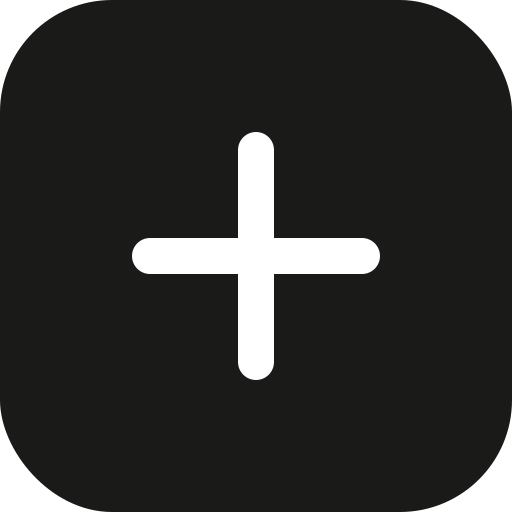
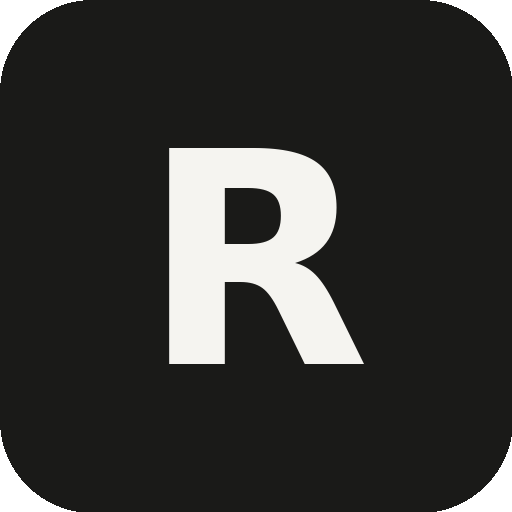
layout correction

diff --git a/src/components/layout/NavVisibilityWrapper.tsx b/src/components/layout/NavVisibilityWrapper.tsx
@@ -1,26 +1,53 @@
 'use client'
 
 import { usePathname } from 'next/navigation'
+import BottomNav from '@/components/layout/BottomNav'
+import SidebarNav from '@/components/layout/SidebarNav'
 
 const HIDDEN_ROUTES = ['/login', '/onboarding', '/auth']
 
-export default function NavVisibilityWrapper({
-  children,
-}: {
+interface Props {
   children: React.ReactNode
-}) {
+  userName: string
+  userInitials: string
+  userRole: string
+}
+
+export default function NavVisibilityWrapper({ children, userName, userInitials, userRole }: Props) {
   const pathname = usePathname()
   const hideNav = HIDDEN_ROUTES.some((route) => pathname.startsWith(route))
 
+  // Auth/onboarding pages — no nav, no shell, just the page
   if (hideNav) {
-    // On auth/onboarding pages, render children without any nav wrapper
-    return (
-      <div style={{ minHeight: '100dvh' }}>
-        {children}
-      </div>
-    )
+    return <div style={{ minHeight: '100dvh' }}>{children}</div>
   }
 
-  // On normal pages, render the full shell (sidebar + content + bottom nav)
-  return <>{children}</>
+  // Normal app pages — full shell with sidebar + bottom nav
+  return (
+    <>
+      <div className="hidden md:block">
+        <SidebarNav userName={userName} userInitials={userInitials} userRole={userRole} />
+      </div>
+      <div
+        className="app-shell md:ml-[210px]"
+        style={{ display: 'flex', flexDirection: 'column', minHeight: '100dvh', overflow: 'hidden' }}
+      >
+        <main
+          className="page-content"
+          style={{
+            flex: 1,
+            overflowY: 'auto',
+            viewTransitionName: 'page-content',
+          }}
+        >
+          <div className="px-4 py-4 pb-[90px] md:px-10 md:py-8 md:pb-8 md:max-w-[1240px] md:mx-auto">
+            {children}
+          </div>
+        </main>
+        <div className="block md:hidden flex-shrink-0">
+          <BottomNav />
+        </div>
+      </div>
+    </>
+  )
 }

diff --git a/src/app/layout.tsx b/src/app/layout.tsx
@@ -1,9 +1,7 @@
 import type { Metadata, Viewport } from 'next'
 import { Inter } from 'next/font/google'
 import './globals.css'
-import BottomNav from '@/components/layout/BottomNav'
 import ProgressBar from '@/components/layout/ProgressBar'
-import SidebarNav from '@/components/layout/SidebarNav'
 import NavVisibilityWrapper from '@/components/layout/NavVisibilityWrapper'
 import { createServerSupabaseClient } from '@/lib/supabase-server'
 import { createClient } from '@supabase/supabase-js'
@@ -15,6 +13,10 @@ export const metadata: Metadata = {
   description: 'Liberate sales and marketing through effortless AI.',
   manifest: '/manifest.json',
   appleWebApp: { capable: true, statusBarStyle: 'default', title: 'Rollable' },
+  icons: {
+    icon: '/favicon-32.png',
+    apple: '/apple-touch-icon.png',
+  },
 }
 
 export const viewport: Viewport = {
@@ -52,9 +54,6 @@ export default async function RootLayout({ children }: { children: React.ReactNo
     <html lang="en">
       <head>
         <style>{`
-          /* ── View Transitions ─────────────────────────────────────────────── */
-
-          /* Default cross-page transition: fast fade + subtle upward drift */
           @keyframes Rollable-fade-in {
             from { opacity: 0; transform: translateY(6px); }
             to   { opacity: 1; transform: translateY(0); }
@@ -63,23 +62,18 @@ export default async function RootLayout({ children }: { children: React.ReactNo
             from { opacity: 1; transform: translateY(0); }
             to   { opacity: 0; transform: translateY(-4px); }
           }
-
           ::view-transition-old(root) {
             animation: 120ms cubic-bezier(0.4, 0, 1, 1) both Rollable-fade-out;
           }
           ::view-transition-new(root) {
             animation: 200ms cubic-bezier(0, 0, 0.2, 1) both Rollable-fade-in;
           }
-
-          /* Named transition for page-level content — faster, no drift */
           ::view-transition-old(page-content) {
             animation: 90ms ease-in both Rollable-fade-out;
           }
           ::view-transition-new(page-content) {
             animation: 160ms ease-out both Rollable-fade-in;
           }
-
-          /* Cards slide in from slightly below on entry */
           @keyframes Rollable-card-in {
             from { opacity: 0; transform: translateY(10px) scale(0.99); }
             to   { opacity: 1; transform: translateY(0) scale(1); }
@@ -87,8 +81,6 @@ export default async function RootLayout({ children }: { children: React.ReactNo
           ::view-transition-new(card) {
             animation: 220ms cubic-bezier(0, 0, 0.2, 1) both Rollable-card-in;
           }
-
-          /* Reduce motion: respect system preference */
           @media (prefers-reduced-motion: reduce) {
             ::view-transition-old(root),
             ::view-transition-new(root),
@@ -101,30 +93,8 @@ export default async function RootLayout({ children }: { children: React.ReactNo
       </head>
       <body className={inter.className}>
         <ProgressBar />
-        <NavVisibilityWrapper>
-          <div className="hidden md:block">
-            <SidebarNav userName={userName} userInitials={userInitials} userRole={userRole} />
-          </div>
-          <div
-            className="app-shell md:ml-[210px]"
-            style={{ display: 'flex', flexDirection: 'column', minHeight: '100dvh', overflow: 'hidden' }}
-          >
-            <main
-              className="page-content"
-              style={{
-                flex: 1,
-                overflowY: 'auto',
-                viewTransitionName: 'page-content', /* named transition for main content */
-              }}
-            >
-              <div className="px-4 py-4 pb-[90px] md:px-10 md:py-8 md:pb-8 md:max-w-[1240px] md:mx-auto">
-                {children}
-              </div>
-            </main>
-            <div className="block md:hidden flex-shrink-0">
-              <BottomNav />
-            </div>
-          </div>
+        <NavVisibilityWrapper userName={userName} userInitials={userInitials} userRole={userRole}>
+          {children}
         </NavVisibilityWrapper>
       </body>
     </html>